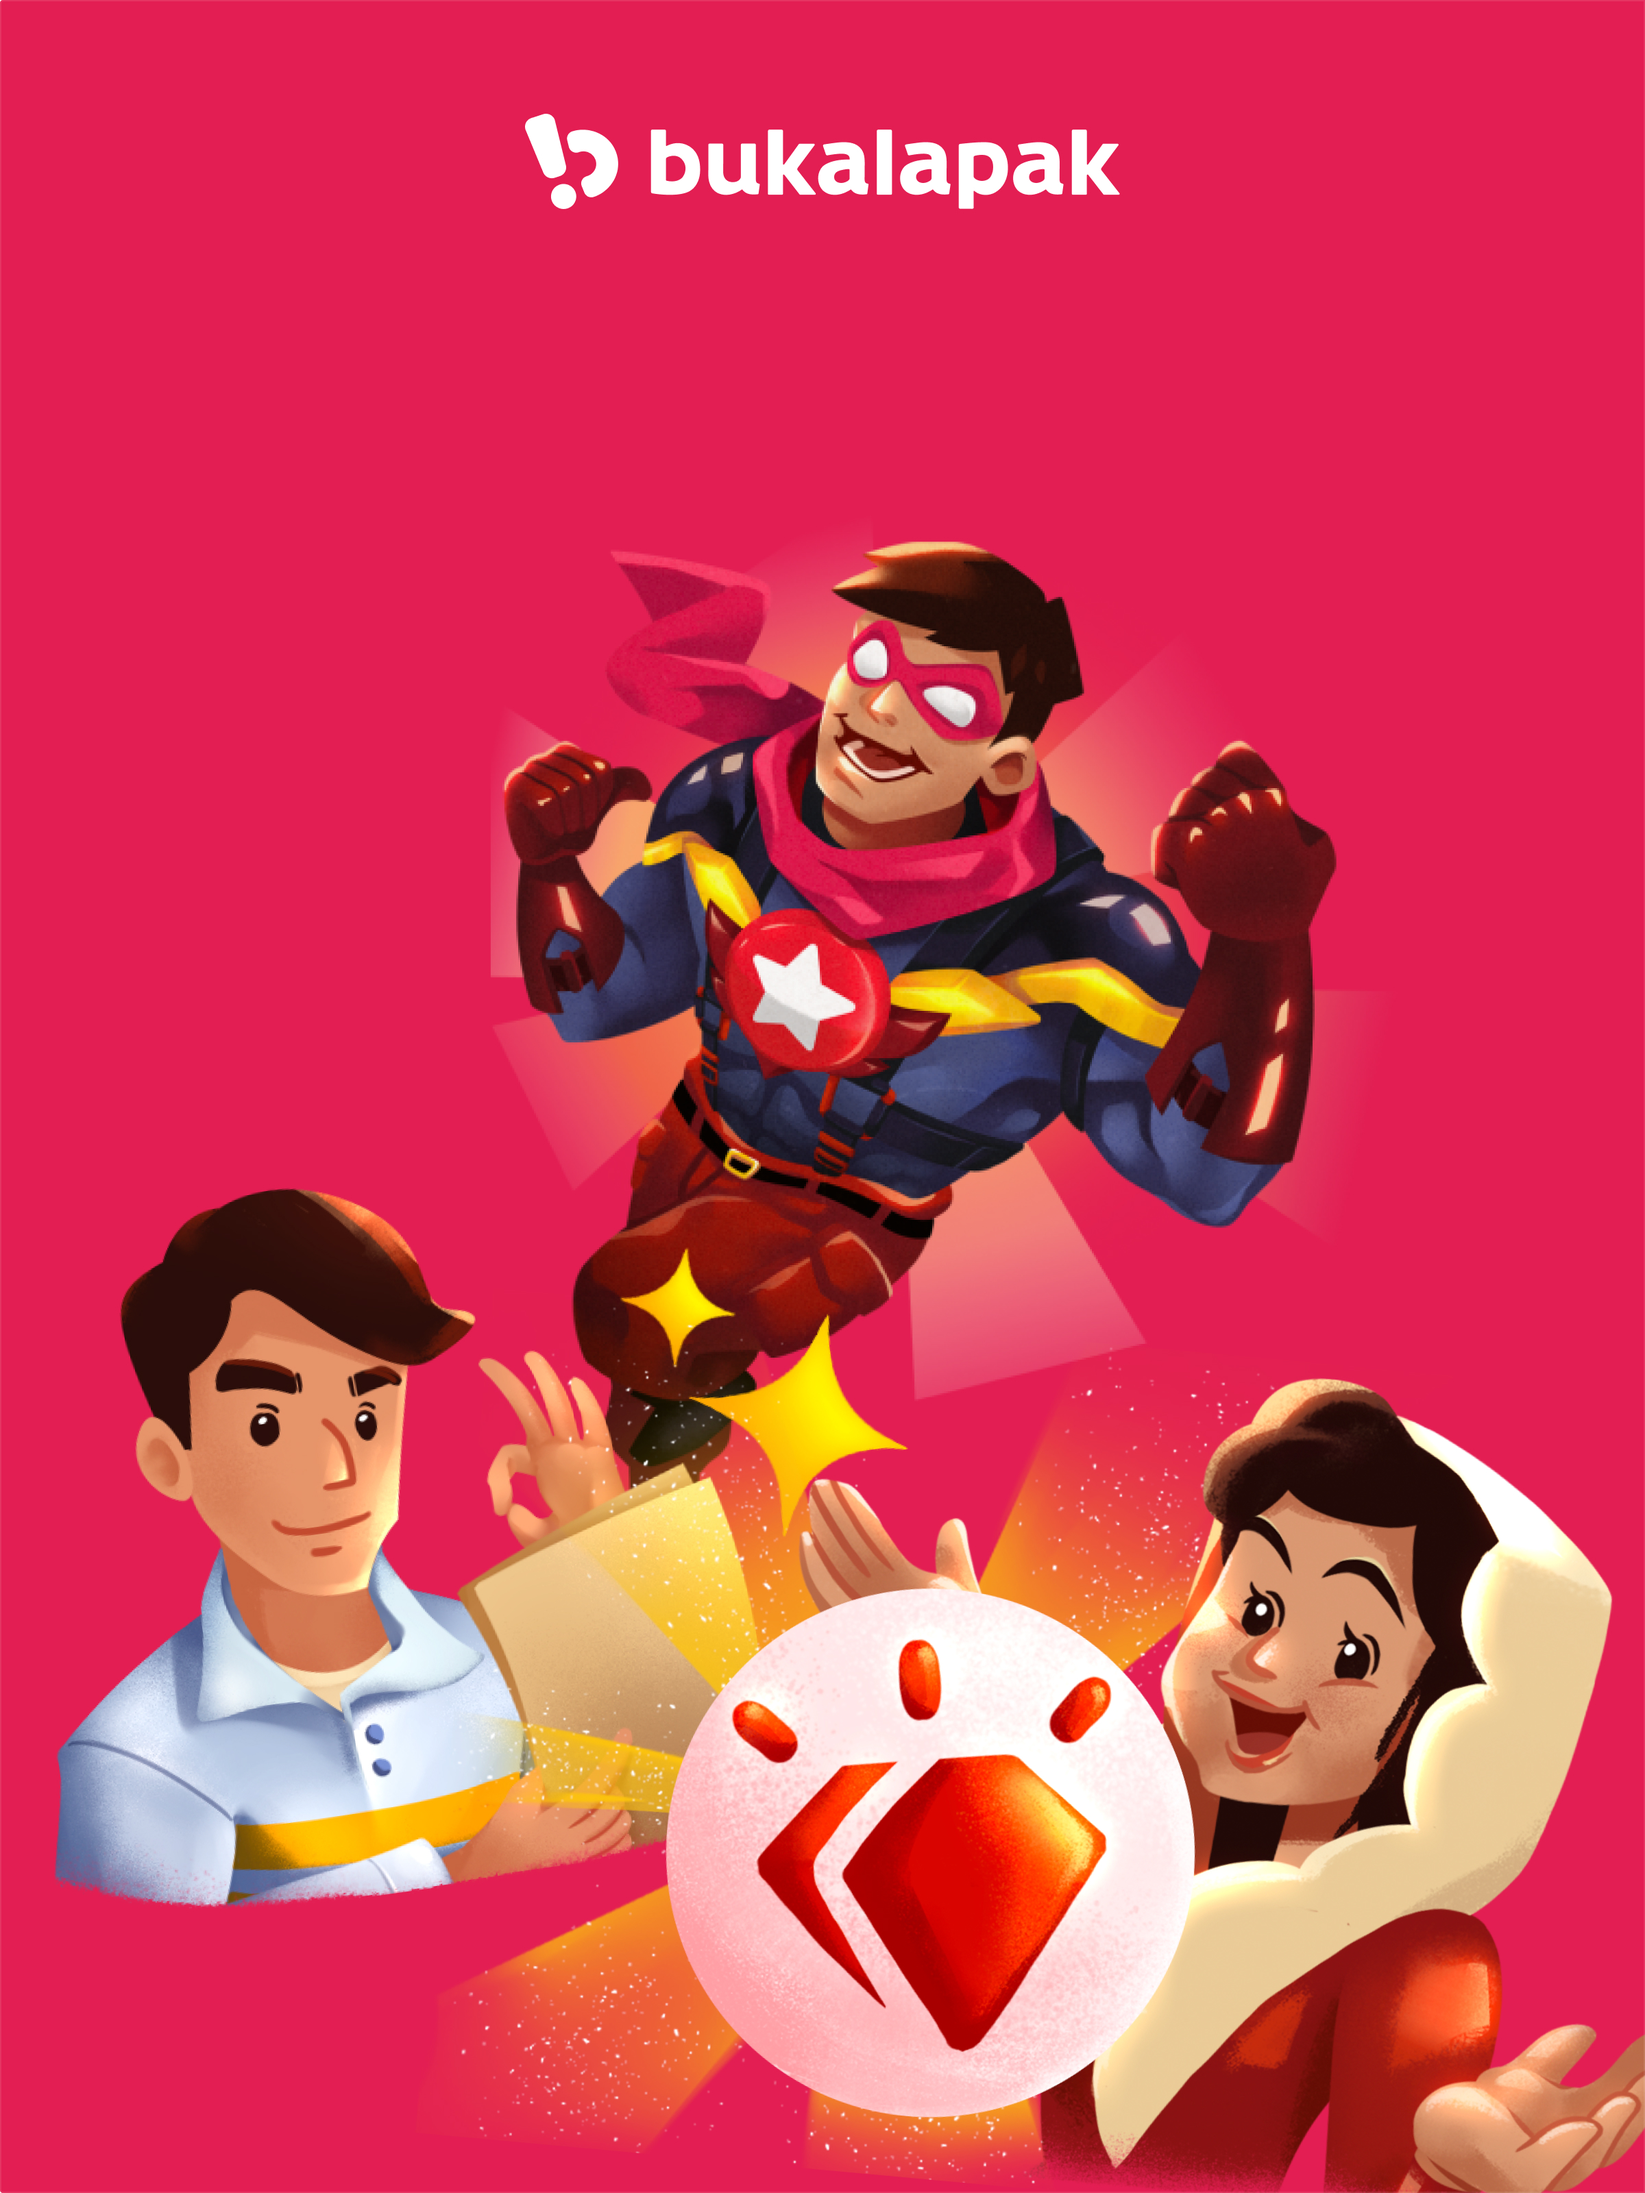
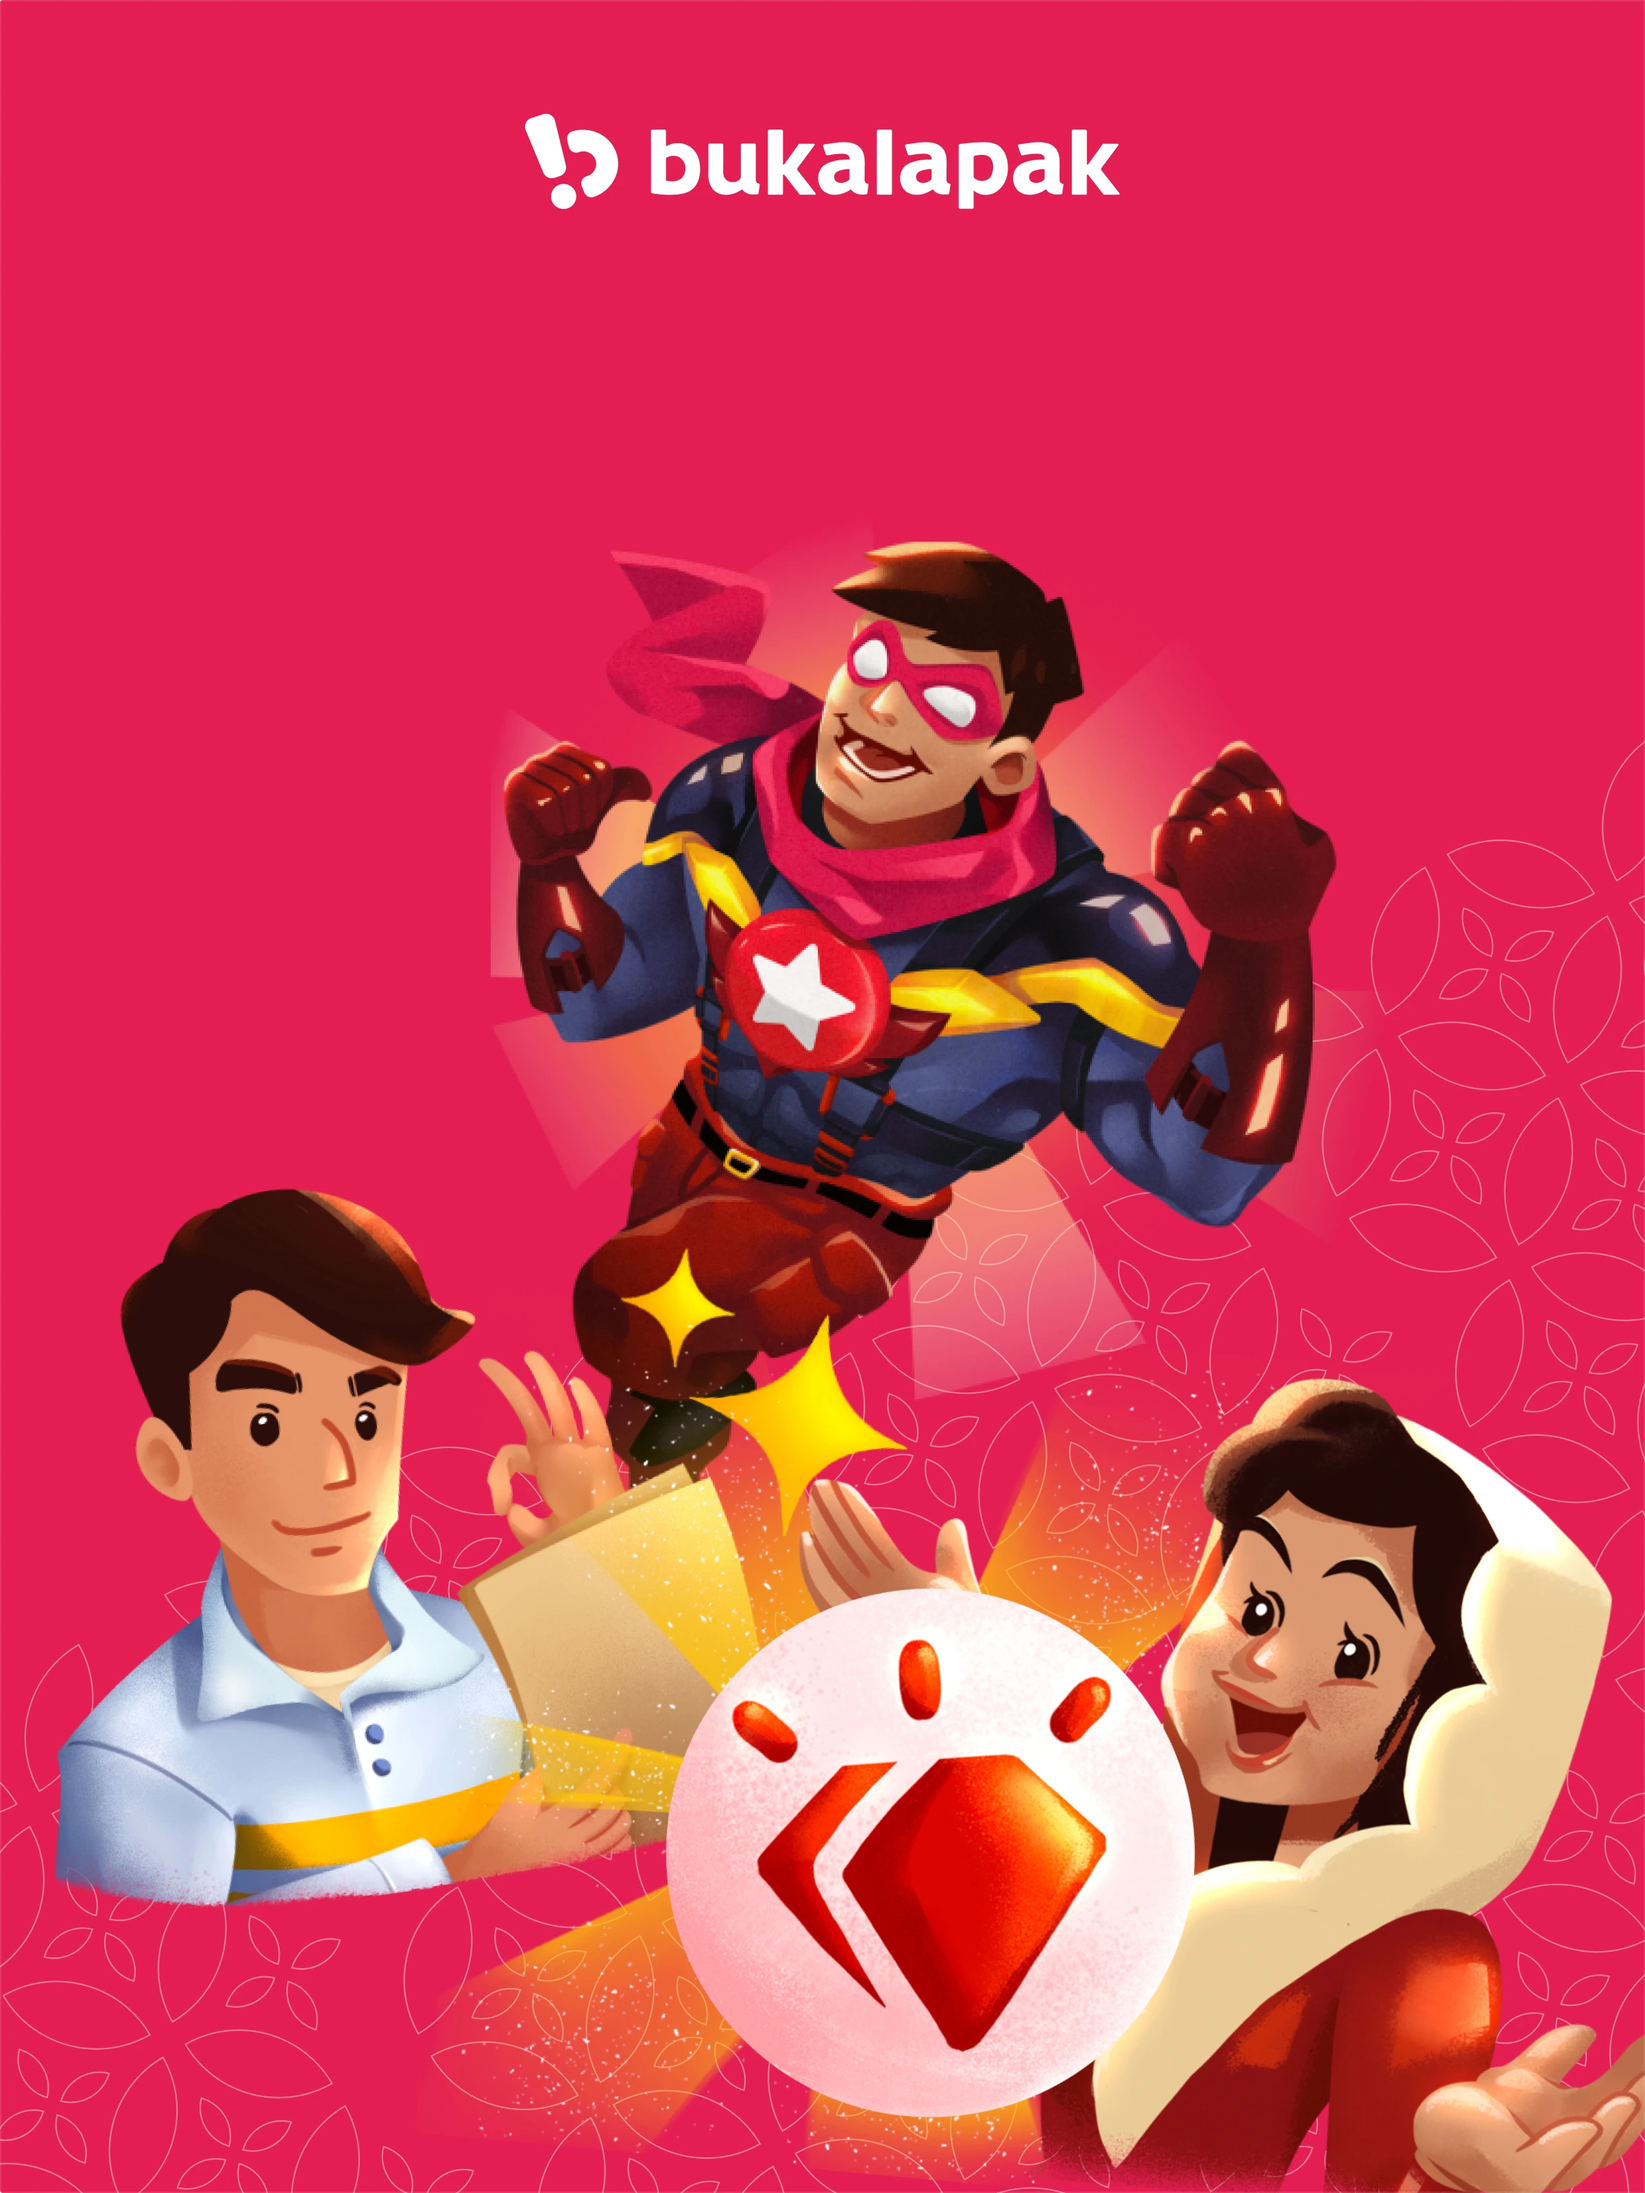
Update projects: DailyFriend, Bukalapak cover, rename Gradient URL
- Add DailyFriend project gallery (folder 5)
- Update Bukalapak cover image
- Rename gradient-utbk to gradient-academy
- Remove unused images (profile.webp, dailyfriend old images)
- Clean up .DS_Store files

Changed region(s): [[0.125, 0.9688, 0.1562, 1.0]]

diff --git a/content/pages/blog/dailyfriend.md b/content/pages/blog/dailyfriend.md
@@ -13,14 +13,25 @@ workedOn:
   - Interaction Design
 aspectRatio: tall
 featuredImage:
-  url: /images/dailyfriend.webp
+  url: /images/project/5/cover.webp
   altText: DailyFriend App
   type: ImageBlock
 gallery:
-  - url: /images/dailyfriend.webp
+  - url: /images/project/5/Frame 123123.webp
     altText: App home screen
-  - url: /images/dailyfriend-2.webp
-    altText: Mood tracking feature
+  - url: /images/project/5/Frame 2147236731.webp
+    altText: Mood tracking
+    ratio: square
+  - url: /images/project/5/Frame 2147236733.webp
+    altText: Daily check-in
+    ratio: square
+  - url: /images/project/5/Frame 2147236732.webp
+    altText: Progress overview
+  - url: /images/project/5/Frame 2147236734.webp
+    altText: Wellness features
+    ratio: square
+  - url: /images/project/5/Frame 2147236735.webp
+    altText: Full experience
 isFeatured: true
 type: PostLayout
 ---

diff --git a/content/pages/blog/gradient-academy.md b/content/pages/blog/gradient-academy.md
@@ -1,6 +1,6 @@
 ---
 title: Gradient Academy
-slug: gradient-utbk
+slug: gradient-academy
 excerpt: Designing Gradient's learning platform for university students, featuring AI copilot, video lectures, and comprehensive study tools.
 projectOverview:
   website: https://gradient.id
